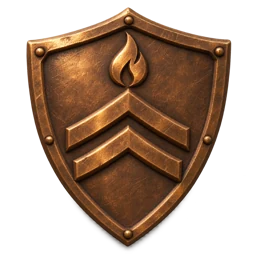
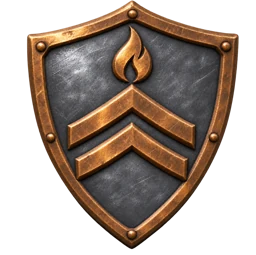
Art: rank_05 updated (iron face, bronze rim)
Claude-Session: https://claude.ai/code/session_01LLNSSFNzfHsbSUVKKUqHTx

diff --git a/sw.js b/sw.js
@@ -1,5 +1,5 @@
 // Network-first for the app shell so updates arrive right away; cache is the offline fallback.
-const CACHE = 'imc-v28';
+const CACHE = 'imc-v29';
 const SHELL = ['./', './index.html', './manifest.webmanifest', './icons/icon.svg', './icons/icon-192.png', './map.json', './map.jpg', './story.json', './battle.js', './election.js', './command.js', './profile.js', './elec/us.json', './art/map_farmland.webp', './art/u_tank_light.webp'];
 self.addEventListener('install', e => { e.waitUntil(caches.open(CACHE).then(c => c.addAll(SHELL)).then(() => self.skipWaiting())); });
 self.addEventListener('activate', e => { e.waitUntil(caches.keys().then(ks => Promise.all(ks.filter(k => k !== CACHE).map(k => caches.delete(k)))).then(() => self.clients.claim())); });
